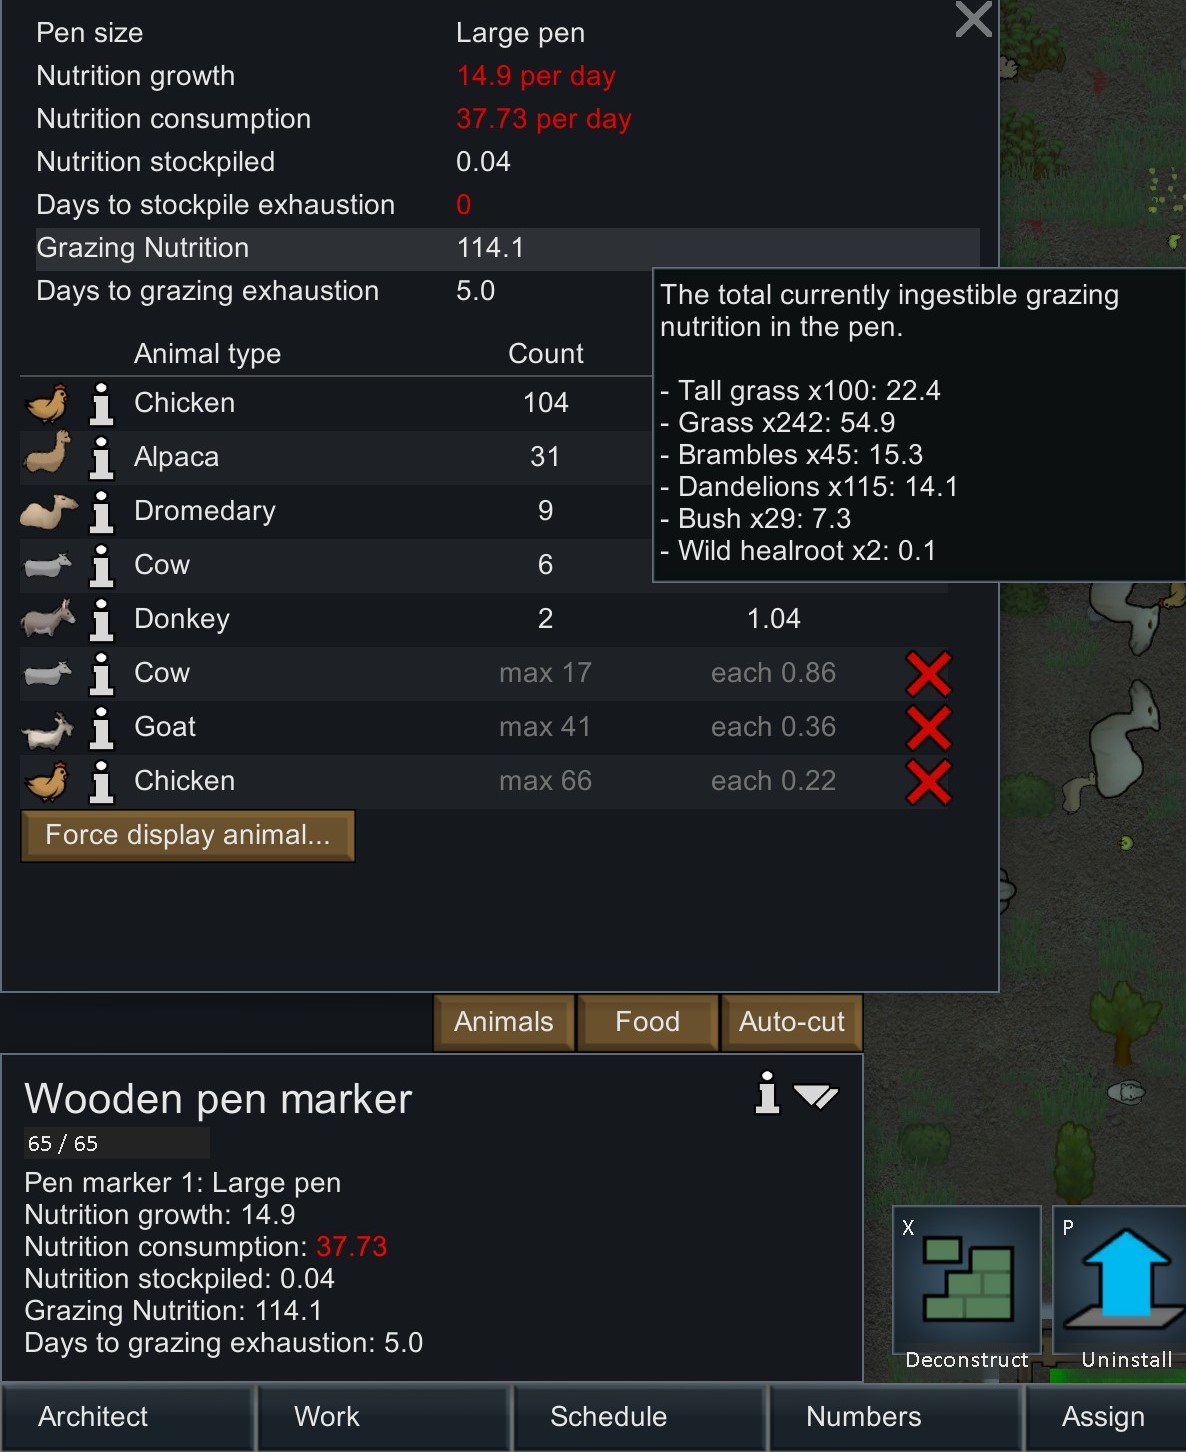
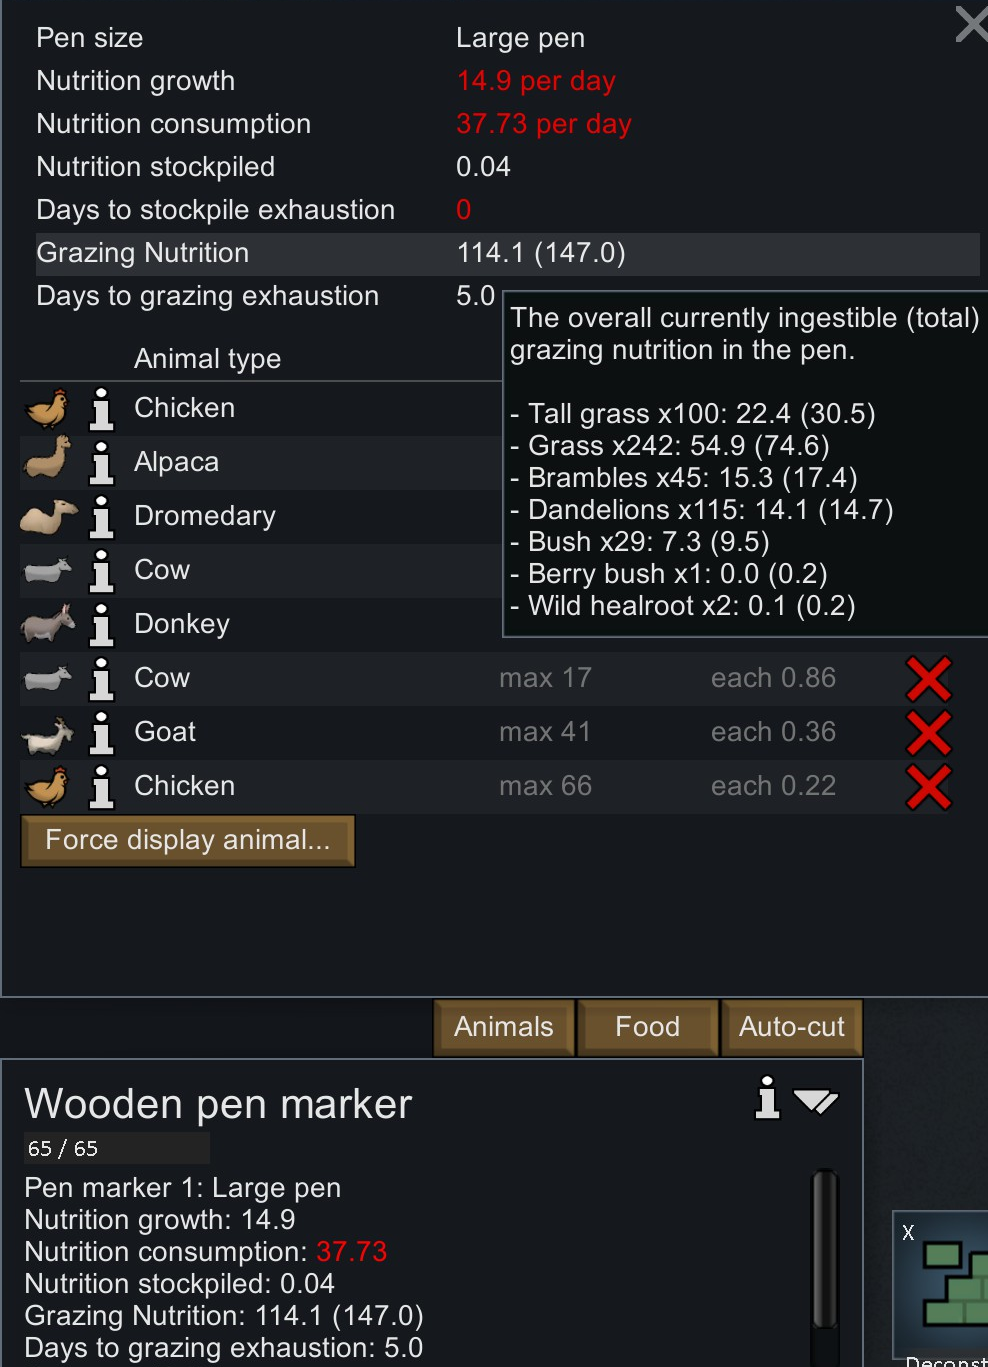
Display both NutritionIngestible & NutritionGrown

Changed region(s): [[0.0, 0.0, 1.0, 1.0]]

diff --git a/Source/GrazingInfo/GrazingInfo.cs b/Source/GrazingInfo/GrazingInfo.cs
@@ -1,4 +1,4 @@
-#nullable enable
+#nullable enable
 
 using System;
 using System.Collections.Generic;
@@ -34,19 +34,22 @@ namespace CF_GrazingInfo
     {
         public class Info
         {
-            public float Nutrition;
+            public float NutritionIngestible;
+            public float NutritionGrown;
             public int Count;
         }
 
         public static Dictionary<ThingDef, Info> Summary = new();
         public static Dictionary<ThingDef, bool> edibleCache = new();
-        public static float TotalNutrition;
+        public static float TotalNutritionIngestible;
+        public static float TotalNutritionGrown;
         public static string? CachedTooltip;
         public static string? CachedGrazingEmptyDays;
         public static void Reset()
         {
             Summary.Clear();
-            TotalNutrition = 0;
+            TotalNutritionIngestible = 0;
+            TotalNutritionGrown = 0;
             CachedTooltip = null;
             CachedGrazingEmptyDays = null;
         }
@@ -66,24 +69,22 @@ namespace CF_GrazingInfo
                     {
                         continue;
                     }
-                    float nutritionAvailable = 0;
-                    if (plant.IngestibleNow)
-                    {
-                        float nutrition = plant.GetStatValue(StatDefOf.Nutrition);
-                        nutritionAvailable = plant.Growth * nutrition;
-                    }
+                    float nutritionAvailable = plant.Growth * plant.GetStatValue(StatDefOf.Nutrition);
+                    float nutritionIngestible = plant.IngestibleNow ? nutritionAvailable : 0;
 
-                    TotalNutrition += nutritionAvailable;
+                    TotalNutritionGrown += nutritionAvailable;
+                    TotalNutritionIngestible += nutritionIngestible;
+
                     if (Summary.TryGetValue(plant.def, out var info))
                     {
-                        info.Nutrition += nutritionAvailable;
+                        info.NutritionGrown += nutritionAvailable;
+                        info.NutritionIngestible += nutritionIngestible;
                         info.Count += 1;
                     }
                     else
                     {
-                        Summary.Add(plant.def, new Info { Nutrition = nutritionAvailable, Count = 1 });
+                        Summary.Add(plant.def, new Info { NutritionGrown = nutritionAvailable, NutritionIngestible = nutritionIngestible, Count = 1 });
                     }
-
                 }
             }
         }
@@ -94,7 +95,7 @@ namespace CF_GrazingInfo
                 float consumptionPerDay = calc.SumNutritionConsumptionPerDay - calc.NutritionPerDayToday;
                 if (consumptionPerDay > 0)
                 {
-                    float d = TotalNutrition / consumptionPerDay;
+                    float d = TotalNutritionIngestible / consumptionPerDay;
                     if (d < 999) {
                         CachedGrazingEmptyDays = d.ToString("F1");
                     } else {
@@ -122,7 +123,8 @@ namespace CF_GrazingInfo
 
                 foreach (var kv in Summary)
                 {
-                    if (kv.Value.Nutrition < 0.01)
+                    var info = kv.Value;
+                    if (info.NutritionGrown < 0.1)
                     {
                         continue;
                     }
@@ -131,9 +133,9 @@ namespace CF_GrazingInfo
                         .Append("- ")
                         .Append(kv.Key.LabelCap)
                         .Append(" x")
-                        .Append(kv.Value.Count)
+                        .Append(info.Count)
                         .Append(": ")
-                        .AppendLine(kv.Value.Nutrition.ToString("F1"));
+                        .AppendLine($"{info.NutritionIngestible:F1} ({info.NutritionGrown:F1})");
                 }
                 CachedTooltip = stringBuilder.ToString();
             }
@@ -175,7 +177,7 @@ namespace CF_GrazingInfo
         {
             var arg = new object?[] {
                 "GrazingInfo_Total".Translate().ToString(),
-                PenFoodCalc.TotalNutrition.ToString("F1"),
+                $"{PenFoodCalc.TotalNutritionIngestible:F1} ({PenFoodCalc.TotalNutritionGrown:F1})",
                 curY, width,
                 () => PenFoodCalc.ToolTip(),
                 null
@@ -201,7 +203,7 @@ namespace CF_GrazingInfo
                 .AppendLine()
                 .Append("GrazingInfo_Total".Translate())
                 .Append(": ")
-                .AppendLine(PenFoodCalc.TotalNutrition.ToString("F1"))
+                .AppendLine($"{PenFoodCalc.TotalNutritionIngestible:F1} ({PenFoodCalc.TotalNutritionGrown:F1})")
                 .Append("GrazingInfo_EmptyDays".Translate())
                 .Append(": ")
                 .Append(PenFoodCalc.GetGrazingEmptyDays(calc))
